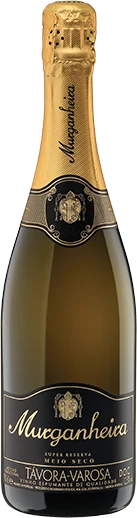
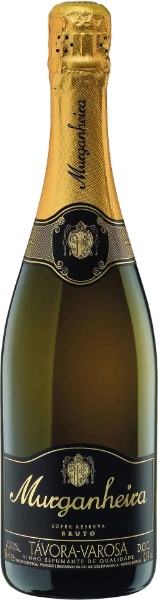
Murganheira Super Reserva: fotografia com o rótulo Bruto
A anterior, do site da Murganheira, mostrava a Super Reserva Meio Seco.

diff --git a/CREDITOS.md b/CREDITOS.md
@@ -48,7 +48,8 @@ as margens e passaram a WebP com 600 px de altura.
 | `piano-*.webp`, `porto-piano-*.webp`, `quintela-*.webp` | [Carlos Alonso Douro Wine](https://carlosalonso.wine/) |
 | `tapada-villar-*.webp`, `conde-villar-*.webp`, `arca-nova-vinhao-primoris.webp` | [Quinta das Arcas](https://lojadaquinta.pt/) |
 | `terras-do-demo-bruto.webp`, `fraga-da-pena-bruto.webp` | [Caves Terras do Demo](https://www.cavesterrasdodemo.pt/) |
-| `murganheira-*.webp` | [Murganheira](https://murganheira.com/) |
+| `murganheira-reserva-bruto.webp` | [Murganheira](https://murganheira.com/) |
+| `murganheira-super-reserva-bruto.webp` | Fotografia junta pela Garrafeira Campelo (setembro de 2026): a do site da Murganheira mostra a Super Reserva Meio Seco |
 | `raposeira-*.webp` | [Caves da Raposeira](https://cavesdaraposeira.com/) |
 | `mata-fidalga-rose-bruto.webp` | [Quinta da Mata Fidalga](https://qmf.pt/) |
 | `3-monts-*.webp` | [Brasserie 3 Monts](https://www.3monts.fr/) |
